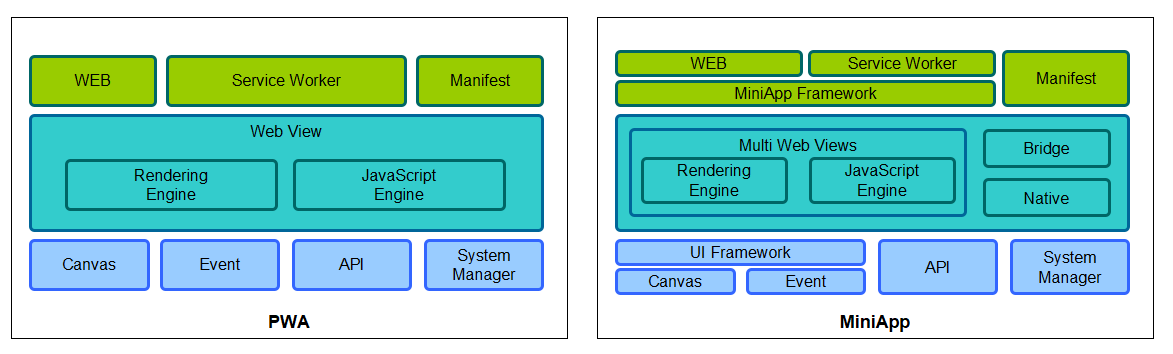
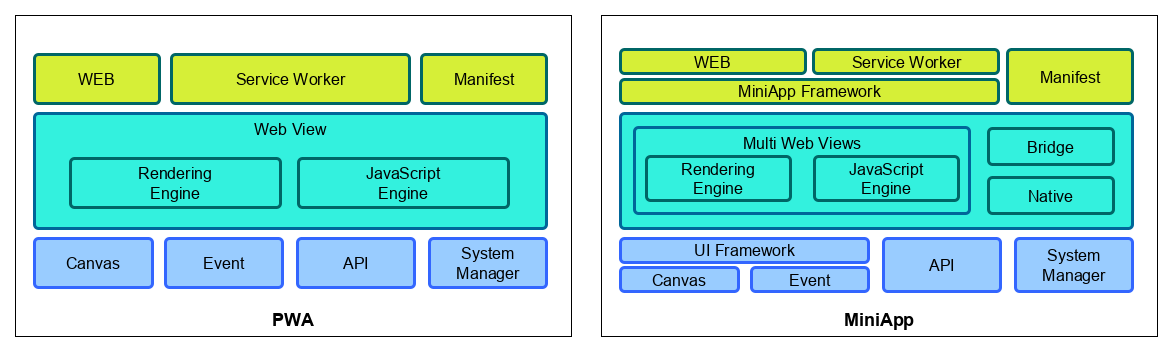
PWA-MiniApp architec. color accessible images

diff --git a/white-paper/index.html b/white-paper/index.html
@@ -181,7 +181,7 @@
 <p>Depending on the implementation, a MiniApp user agent could be an operating system, a super-app, or any other hosting platform, based on different and various rendering engines and WebViews. The architecture of a MiniApp user agent differs from PWA user agents, as we can see in the following picture.</p>
 
 <figure>
-  <img alt="The architecture of MiniApps and PWA" src="images/miniapp_pwa.png" width="800">
+  <img alt="The architecture of MiniApps and PWA" src="images/miniapp_pwa.svg" width="800">
   <figcaption>
     The architecture of MiniApps and PWA
   </figcaption>
